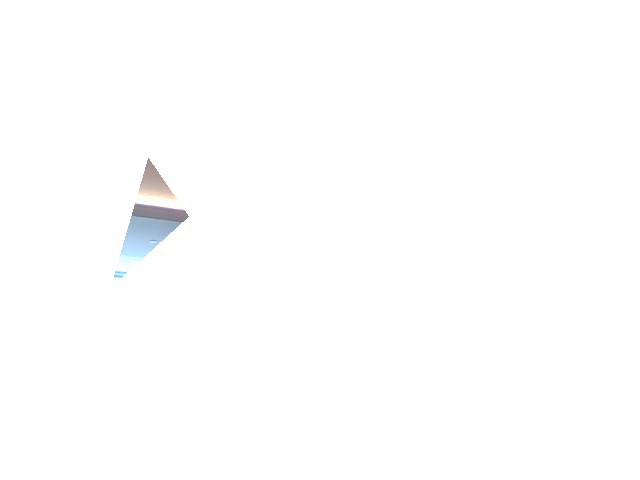
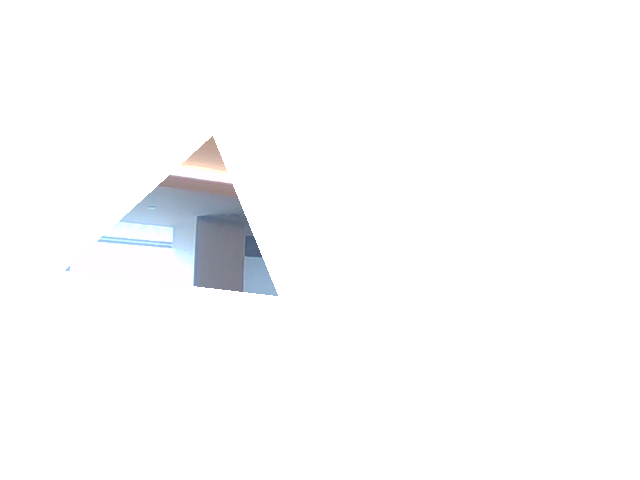
added resize.py

Changed region(s): [[0.1562, 0.2812, 0.4375, 0.625]]

diff --git a/assembly_segmentation/python_files/resize.py b/assembly_segmentation/python_files/resize.py
@@ -1,30 +1,9 @@
-import os
-from PIL import Image, ImageChops
-import numpy as np
+import os, sys
+from PIL import Image
 
-def resize_square(path, size):
-    im = Image.open(path)
-    if im.mode == 'RGBA':
-        print ("Mode:" + im.mode)
-        im.load()
-        
-        background = Image.new("RGB", im.size, (255,255,255)
-        background.paste(im, mask=im.split()[3])
-        im = background
-    if im.mode == 'L':
-        rgbim = Image.new("RGB", im.size)
-        rgbim.paste(im)
-        im = rgbim
-                               
-    im = make_square(im)
-    im = im.resize((size, size), Image.ANTIALIAS)
-    im.save(path[:-4]+ ".jpg")
-        
-                               
-def make_square(im):
-    fill_color = (255,255,255,0)
-    x, y = im.size
-    size = max(m, y)
-    new im = Image.new('RGB', (size, size), fill color)
-    new im.paste(im, ((size - x) / 2, (size - y) / 2
-    return new_im
+def resizes(basewidth):
+    img = Image.open('out.png')
+    wpercent = (basewidth/float(img.size[0]))
+    hsize = int((float(img.size[1])*float(wpercent)))
+    img = img.resize((basewidth,hsize), Image.ANTIALIAS)
+    img.save('out.jpg')

diff --git a/assembly_segmentation/python_files/assembly_segmentation.py b/assembly_segmentation/python_files/assembly_segmentation.py
@@ -5,7 +5,7 @@ import os
 from PIL import Image, ImageChops
 import numpy as np
 from Screenshotter import run, cropper
-from resize import resize_square
+from resize import resizes
 
 
 try:
@@ -262,7 +262,7 @@ def init():
                     
                     cropper(ordered_nodes)
                     background = pygame.image.load("out.png")
-                    #resize_square("out.png", 224)
+                    resizes(224)
                         
                         
             if event.type == pygame.QUIT:
